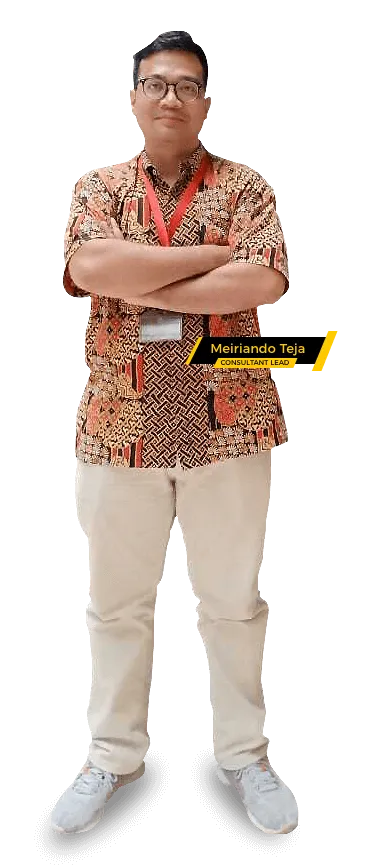
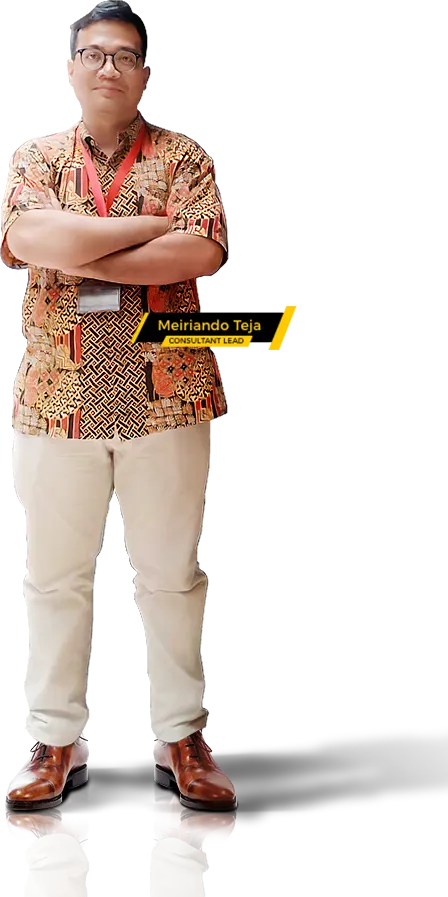
update background tim ahli, and header

diff --git a/css/style-pm.css b/css/style-pm.css
@@ -193,6 +193,12 @@ body {
 }
 /* end common */
 
+/* position */
+.position--relative{
+  position: relative;
+}
+/* end position */
+
 /* row */
 .row.row--flex {
   display: flex;
@@ -283,7 +289,8 @@ input.form-control.h--50px {
 /* expert team */
 .pm-expert-team{
   background: url(../img/pm/bg-tim-ahli.jpg) center/cover no-repeat;
-  padding: 2em 0;
+  position: relative;
+  overflow: hidden;
 }
 
 .expert-team-box{
@@ -303,6 +310,12 @@ input.form-control.h--50px {
   position: absolute;
   left: 0;
   top: -25px;
+}
+
+.consultant-lead-wrapper{
+  position: absolute;
+  bottom: 0;
+  right: -30px;
 }
 /* end expert team */
 
@@ -375,9 +388,24 @@ input.form-control.h--50px {
     margin-bottom: 20px;
   }
 
+  .consultant-lead-wrapper{
+    display: none;
+  }
   .expert-team-wrapper [class*='col-']:first-child{
     order: 1;
   }
 }
 
+@media screen and (max-width: 768px){
+  .pm-header .header-top{
+    height: 145px;
+  }
+  .pm-wrapper .pm-header {
+    background-position: -175px 0px;
+    background-size: auto 100%;
+  }
+  .pm-wrapper .pm-header .header__title {
+    margin-top: 150px;
+  }
+}
 /* end responsive */

diff --git a/project-management.php b/project-management.php
@@ -235,7 +235,7 @@ if(isset($_POST['submitted']))
     </section>
 
     <section class="mb--60px pm-expert-team">
-        <div class="content-wrapper__">
+        <div class="content-wrapper__ py--60px">
             <div class="container__">
                 <div class="row row--flex expert-team-wrapper">
                     <div class="col-xs-12 col-md-6">
@@ -250,13 +250,13 @@ if(isset($_POST['submitted']))
                             </p>
                         </div>
                     </div>
-                    <div class="col-xs-12 col-md-6 d-flex align-items-end justify-content-center">
-                        <div class="consultant-lead-wrapper">
-                            <img src="/img/pm/consultant-lead-meiriando.png" class="img-responsive mx--auto" alt="Meiriando Teja">
-                        </div>
-                    </div>
+                    <div class="col-xs-12 col-md-6 d-flex align-items-end justify-content-center"></div>
                 </div>
             </div>
+            
+        </div>
+        <div class="consultant-lead-wrapper">
+            <img src="/img/pm/consultant-lead-meiriando.png" class="img-responsive mx--auto" alt="Meiriando Teja">
         </div>
     </section>
 
@@ -325,9 +325,9 @@ if(isset($_POST['submitted']))
                         <p>3. Daily Scrum</p>
                         <p>Daily scrum merupakan event harian yang dilakukan oleh Tim dan scrum master untuk update pekerjaan dari Tim masing-masing. Untuk menjaga ke efektifan dalam proses daily scrum, event ini di timeboxing dalam 15 - 30 menit tergantung dengan kebutuhan di dalam tim sendiri. Setiap member yang ikut dalam daily scrum akan memiliki giliran untuk menjelaskan 3 hal utama dalam daily scrum seperti berikut : </p>
                         <div class="ceremonies-box-wrapper">
-                            <span class="ceremonies-box">Pekerjaan yang dilakukan kemarin</span>
-                            <span class="ceremonies-box">Pekerjaan yang akan dilakukan hari ini</span>
-                            <span class="ceremonies-box">Blocker atau hambatan yang mempengaruhi pekerjaan Tim hari itu</span>
+                            <span class="ceremonies-box">Pekerjaan yang dilakukan kemarin.</span>
+                            <span class="ceremonies-box">Pekerjaan yang akan dilakukan hari ini.</span>
+                            <span class="ceremonies-box">Blocker atau hambatan yang mempengaruhi pekerjaan Tim hari itu.</span>
                         </div>
                     </div>
                 </div>
@@ -358,9 +358,9 @@ if(isset($_POST['submitted']))
                         <p>5. Sprint Retrospective</p>
                         <p>Sprint retrospective merupakan event yg dilakukan di akhir sprint untuk me review kembali proses selama 1 sprint dan memutuskan action item yg akan dilakukan di sprint depan untuk proses sprint yang lebih baik. Sprint retrospective sendiri akan mendiskusikan 3 hal yaitu: </p>
                         <div class="ceremonies-box-wrapper">
-                            <span class="ceremonies-box">Apa yang kurang berjalan baik selama sprint</span>
-                            <span class="ceremonies-box">Apa yang sudah berjalan baik selama sprint</span>
-                            <span class="ceremonies-box">Apa yang masih membingungkan didalam sprint</span>
+                            <span class="ceremonies-box">Apa yang kurang berjalan baik selama sprint.</span>
+                            <span class="ceremonies-box">Apa yang sudah berjalan baik selama sprint.</span>
+                            <span class="ceremonies-box">Apa yang masih membingungkan didalam sprint.</span>
                         </div>
                         <p>Dari 3 hal diskusi tersebut akan di lanjutkan action item yang perlu dilakukan di sprint depan mengcover 3 hal tersebut.</p>
                     </div>
